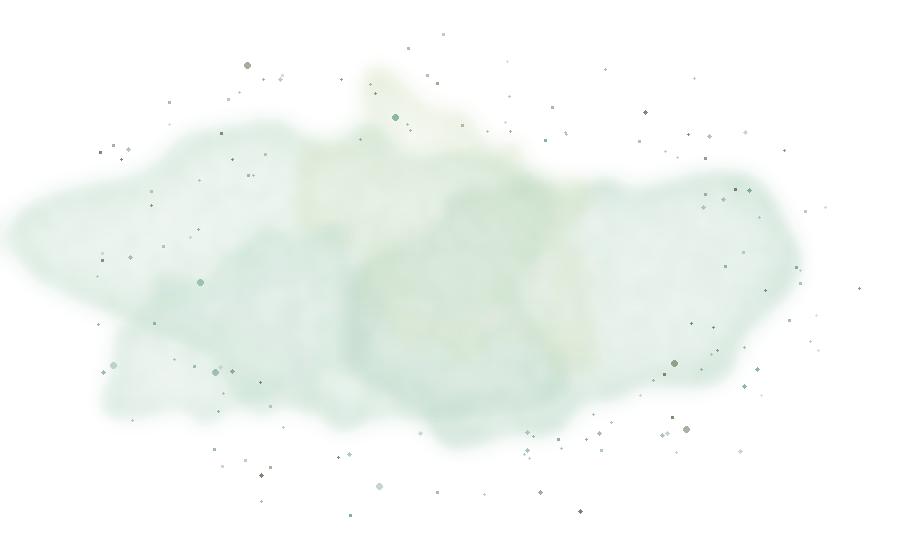
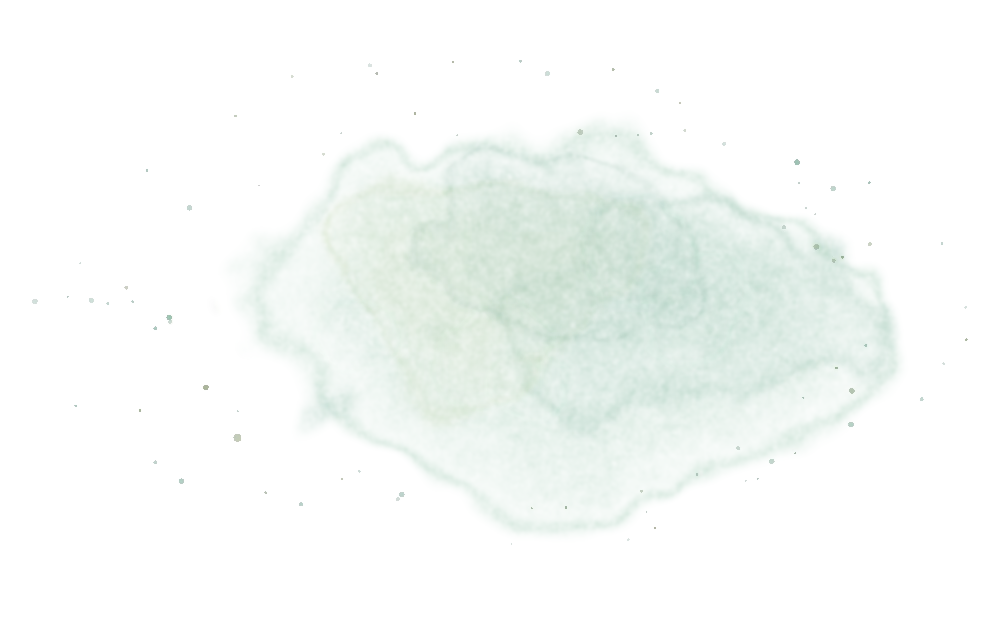
Leaf spray in the corner, real watercolour wash, no initials, more script
- Bottom-left: a spray of whole monstera and heart leaves fanning from the corner
- Wash behind the names repainted with watercolour edges, blooms and grain
- Envelope card and booth strip now use full names instead of initials
- Italianno script for the short phrases (welcome lines, dress code, RSVP deadline)

Claude-Session: https://claude.ai/code/session_01WpfQfujxHhr6udEaJacsYk

diff --git a/src/components/ui/InvitationIntro.tsx b/src/components/ui/InvitationIntro.tsx
@@ -99,7 +99,7 @@ function StickerPhoto({
         initial={{ opacity: 0 }}
         animate={{ opacity: 1 }}
         transition={{ delay: delay + 0.4, duration: 0.4 }}
-        className="text-leaf text-sm md:text-base font-sans italic mt-2"
+        className="script-line text-2xl md:text-3xl mt-1"
       >
         {name}
       </motion.span>
@@ -163,10 +163,12 @@ function EnvelopeOpening({ onReveal, onDone }: { onReveal: () => void; onDone: (
           transition={{ duration: phase === "out" ? 0.7 : 0.85, ease: [0.22, 1, 0.36, 1] }}
         >
           <Image src={`${basePath}/monstera-leaf.png`} alt="" width={22} height={25} className="w-5 h-auto" />
-          <p className="script-name text-4xl md:text-5xl mt-1 leading-none">
-            {couple.partner1[0]}
-            <span className="font-serif italic text-olive text-xl mx-1 [-webkit-text-stroke:0]">&amp;</span>
-            {couple.partner2[0]}
+          <p className="script-name text-4xl md:text-5xl mt-1 leading-none text-center">
+            {couple.partner1}
+            <span className="block font-serif italic text-olive text-base md:text-lg [-webkit-text-stroke:0]">
+              &amp;
+            </span>
+            {couple.partner2}
           </p>
           <p className="text-[0.65rem] tracking-[0.3em] text-cream/70 mt-1">31 · 01 · 2027</p>
         </motion.div>
@@ -260,7 +262,7 @@ export function InvitationIntro({
             {/* eslint-disable-next-line @next/next/no-img-element */}
             <img src={`${basePath}/monstera-vine.webp`} alt="" aria-hidden="true" className="monstera-vine" />
             {/* eslint-disable-next-line @next/next/no-img-element */}
-            <img src={`${basePath}/leaves/corner-leaf.webp`} alt="" aria-hidden="true" className="corner-leaf" />
+            <img src={`${basePath}/leaves/corner-cluster.webp`} alt="" aria-hidden="true" className="corner-leaf" />
             <div className="kasavu-frame" aria-hidden="true" />
 
             {/* Ganesha from the invite */}
@@ -285,7 +287,7 @@ export function InvitationIntro({
               initial={{ opacity: 0, y: 8 }}
               animate={{ opacity: 1, y: 0 }}
               transition={{ duration: 0.6, delay: 0.2 }}
-              className="relative text-cream/80 text-base md:text-lg tracking-wide font-sans"
+              className="relative script-line text-4xl md:text-5xl"
             >
               Together with their families
             </motion.p>
@@ -309,7 +311,7 @@ export function InvitationIntro({
               initial={{ opacity: 0 }}
               animate={{ opacity: 1 }}
               transition={{ delay: 1.0, duration: 0.5 }}
-              className="relative text-cream/80 text-base md:text-lg tracking-wide font-sans mt-3"
+              className="relative script-line text-4xl md:text-5xl mt-3"
             >
               Invite you to their wedding
             </motion.p>

diff --git a/src/app/globals.css b/src/app/globals.css
@@ -172,6 +172,14 @@ body {
 }
 
 /* Script names, as on the invite (a hair of stroke matches the card's weight) */
+/* Short phrases in the same script, slightly lighter */
+.script-line {
+  font-family: var(--font-script);
+  font-weight: 400;
+  color: color-mix(in srgb, var(--color-ink) 85%, transparent);
+  line-height: 1;
+}
+
 .script-name {
   font-family: var(--font-script);
   font-weight: 400;
@@ -180,27 +188,27 @@ body {
   line-height: 0.95;
 }
 
-/* ── Monstera leaf peeking in from the bottom-left ─ */
+/* ── Monstera leaves fanning out from the bottom-left corner ─ */
 
 .corner-leaf {
   position: fixed;
   left: 0;
   bottom: 0;
-  width: clamp(150px, 20vw, 300px);
+  width: clamp(190px, 24vw, 340px);
   height: auto;
   pointer-events: none;
   user-select: none;
   z-index: 0;
-  opacity: 0.85;
-  transform: translate(-30%, 24%) rotate(28deg);
-  transform-origin: 30% 30%;
+  opacity: 0.9;
+  transform: translate(-10%, 10%);
+  transform-origin: 0% 100%;
 }
 
 @media (max-width: 767px) {
   .corner-leaf {
-    width: 130px;
-    opacity: 0.4;
-    transform: translate(-42%, 30%) rotate(28deg);
+    width: 150px;
+    opacity: 0.5;
+    transform: translate(-16%, 14%);
   }
 }
 
@@ -228,7 +236,7 @@ body::before {
 
 @keyframes leaf-sway {
   0%, 100% { rotate: 0deg; }
-  50% { rotate: -3deg; }
+  50% { rotate: 2.5deg; }
 }
 
 .monstera-vine {
@@ -274,7 +282,7 @@ body::before {
   position: absolute;
   left: 50%;
   top: 50%;
-  width: min(150%, 620px);
+  width: min(165%, 640px);
   height: auto;
   transform: translate(-50%, -50%);
   pointer-events: none;

diff --git a/src/components/sections/HeroSection.tsx b/src/components/sections/HeroSection.tsx
@@ -66,7 +66,7 @@ export function HeroSection() {
         {/* Welcome */}
         <motion.p
           variants={fadeUp}
-          className="text-cream/80 text-sm md:text-base tracking-wide font-sans"
+          className="script-line text-3xl md:text-4xl"
         >
           Request the pleasure of your company
         </motion.p>
@@ -78,7 +78,7 @@ export function HeroSection() {
 
         <motion.p
           variants={fadeUp}
-          className="text-cream/80 text-sm md:text-base tracking-wide font-sans mt-3"
+          className="script-line text-3xl md:text-4xl mt-2"
         >
           at the wedding celebration of
         </motion.p>
@@ -189,7 +189,7 @@ export function HeroSection() {
 
         {/* Dress code */}
         <motion.div variants={fadeUp} className="mt-4 flex items-center justify-center gap-4 md:gap-6">
-          <p className="text-cream/80 text-sm md:text-base font-sans">Dress code</p>
+          <p className="script-line text-3xl md:text-4xl">Dress code</p>
           <div className="flex items-center gap-1.5">
             <span className="w-3 h-3 rounded-full bg-[#B5403A] border border-accent/20" />
             <span className="w-3 h-3 rounded-full bg-[#8B2E2A] border border-accent/20" />

diff --git a/src/app/page.tsx b/src/app/page.tsx
@@ -50,7 +50,7 @@ export default function Home() {
       {/* eslint-disable-next-line @next/next/no-img-element */}
       <img src={`${basePath}/monstera-vine.webp`} alt="" aria-hidden="true" className="monstera-vine" />
       {/* eslint-disable-next-line @next/next/no-img-element */}
-      <img src={`${basePath}/leaves/corner-leaf.webp`} alt="" aria-hidden="true" className="corner-leaf" />
+      <img src={`${basePath}/leaves/corner-cluster.webp`} alt="" aria-hidden="true" className="corner-leaf" />
       <div className="kasavu-frame" aria-hidden="true" />
 
       <InvitationIntro onEnter={handleEnter}>

diff --git a/src/components/ui/PhotoBooth.tsx b/src/components/ui/PhotoBooth.tsx
@@ -186,8 +186,8 @@ function BoothStrip({
             </div>
           ))}
         </div>
-        <p className="script-name text-3xl text-center mt-2 leading-none">
-          {couple.partner1[0]} &amp; {couple.partner2[0]}
+        <p className="script-name text-2xl text-center mt-2 leading-none whitespace-nowrap">
+          {couple.partner1} &amp; {couple.partner2}
         </p>
         <p className="text-center text-[0.65rem] tracking-[0.25em] text-cream/70 mt-1">{stripDate}</p>
       </motion.div>

diff --git a/src/components/sections/RSVPSection.tsx b/src/components/sections/RSVPSection.tsx
@@ -105,7 +105,7 @@ export function RSVPSection() {
           <h2 className="script-name text-6xl md:text-7xl">
             RSVP
           </h2>
-          <p className="mt-2 text-cream/60 font-sans font-light text-sm">
+          <p className="mt-1 script-line text-3xl md:text-4xl">
             Kindly respond by{" "}
             {new Date(rsvp.deadline).toLocaleDateString("en-IN", {
     timeZone: "Asia/Kolkata",
